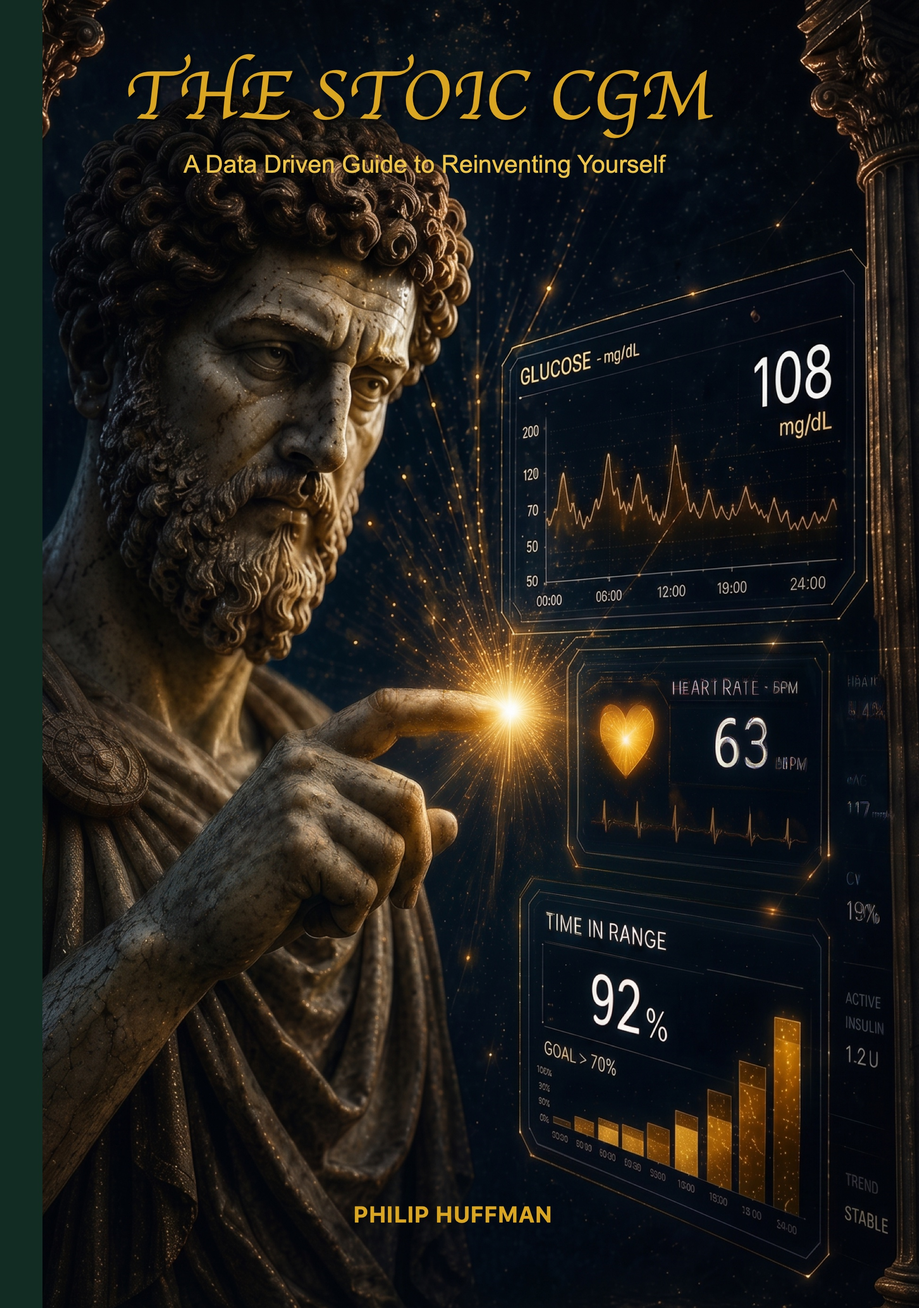
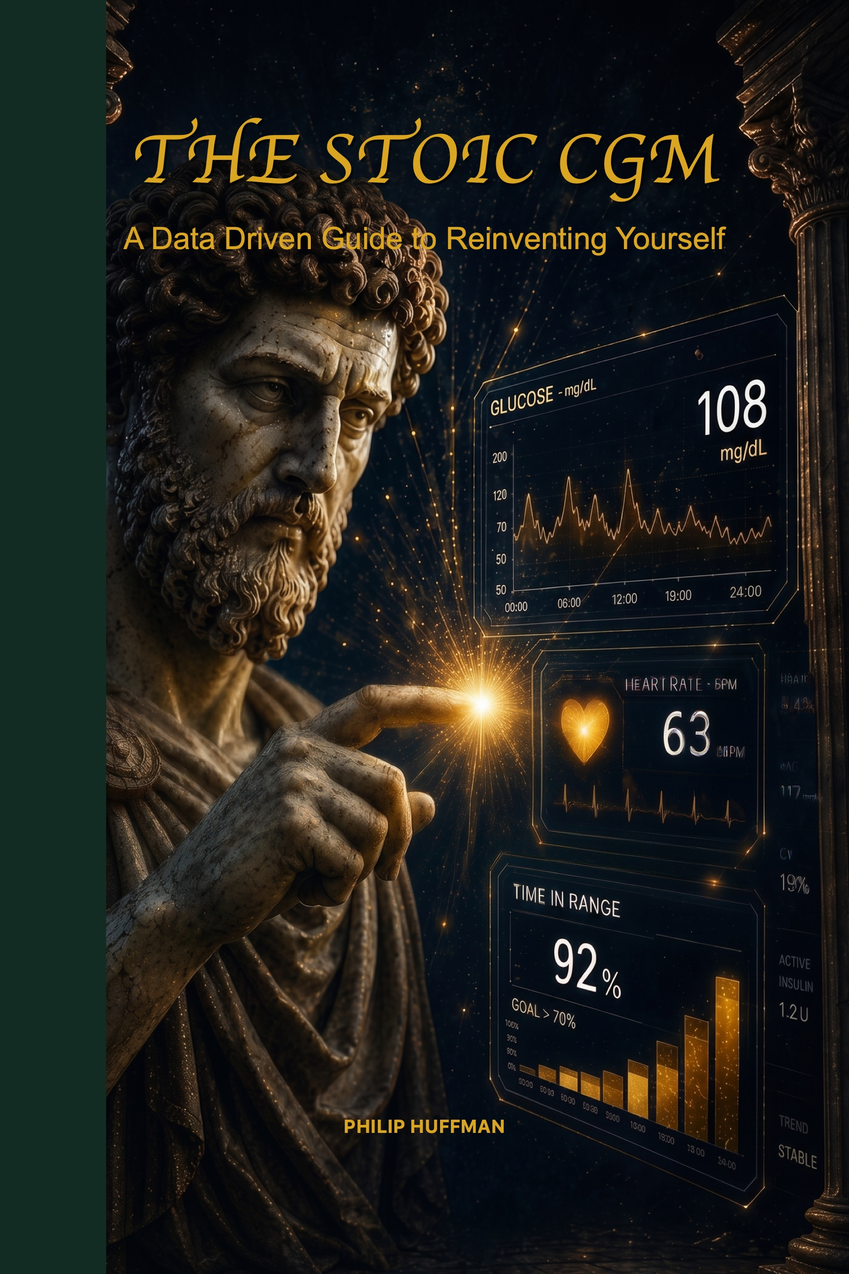
Replace all eleven book covers with the 2026-10-31 renders
Every cover was re-laid out today in CoverStudio (fonts, title scales,
offsets, page counts), so the nine-month-old crops on the site no longer
matched the books. Each file now comes from the project itself:

  CoverStudio render <book> --bind pb --out-front <file>

which reproduces the project's own cover/pb-<slug>.jpg byte for byte.

Two paperback crops are defective in the projects and the site takes the
hardcover crop for those two instead. The renderer fits the title to the
front panel and then applies front_title_offset_x_inches, so an offset
above the safe margin pushes a fitted title past the trim: bws leaves the
"?" 13 px from the edge and hides the first glyph under the spine-colour
band, and proportion runs the last letter off the cover entirely. Their
hardcover crops have 291 px and 305 px of margin. Fixing the paperback
offsets (0.333 -> ~0.2 and 0.5 -> ~0.2) restores a paperback crop for both.

No content changed: every image: value names the same file. stoic-citizen
and tsc are one cover in two names and both were written from one crop, as
was stoic-backgammon.webp beside its .jpg.

Verified: hugo --gc --minify clean, test_gates.py 474 tests OK,
check-hero-paths 411 paths, check-content-frontmatter 278 files,
check-render-integrity 631 pages, check-gallery-pages 152 items, and the
four surfaces that show a cover read in a browser at localhost. Nothing is
cropped in a way that touches type.

diff --git a/SESSION_STATE.md b/SESSION_STATE.md
@@ -12,6 +12,17 @@
 
 ---
 
+### Maintenance — October 31, 2026 — All eleven book covers re-exported and republished
+
+- **Every cover in `assets/img/books/` was replaced with a fresh front-cover crop** after the 2026-10-31 relayout of the LaTeX projects (fonts, title scales, offsets and page counts all moved; `git status` in all eleven book repos showed `M cover/cover.md` plus re-exported `pb-*/hc-*` artifacts). The crops came from **CoverStudio 0.1.13**, built from `~/Developer/Swift/CoverStudio` (`swift build -c release`), rendered headless: `CoverStudio render <book> --bind pb --out-front <file>`. The rendered bytes equal each project's own `cover/pb-<slug>.jpg`, so the CLI and the app agree.
+- **No content was touched.** Every `image:` value in `content/books/*/index.md` still names the same file, so the swap is purely the binary. `stoic-citizen.jpg` and `tsc.jpg` are the same cover twice (the frontmatter names the first, `cover-cache.sh` reads the second) and both were written from one crop, as was `stoic-backgammon.webp` beside its `.jpg`.
+- **Two paperback crops are defective in the projects, and the site takes the hardcover crop for those two instead.** The renderer fits the title to the front panel and *then* applies `front_title_offset_x_inches`, so any offset above the safe margin pushes a fitted title past the trim. Measured on the 2026-10-31 exports: `bws` (offset 0.333 in) leaves the "?" 13 px from the trim edge and hides the first glyph under the 0.33 in spine-colour band; `proportion` (offset 0.5 in) runs the last letter off the edge entirely — its ink bounding box reached the final pixel column. Both hardcover crops are clean (291 px and 305 px of margin), so `by-what-standard.jpg` and `proportion.jpg` are hc renders until the paperback offsets are reduced (`pb_front_title_offset_x_inches` 0.333 → ~0.2 and 0.5 → ~0.2). The other nine are paperback crops.
+- **`AllMyBooks/miscellaneous/covers` was regenerated, not edited:** `shared/cover-cache.sh ../miscellaneous/covers` renders the eleven 400 px also-by thumbnails from this repo's canonical art (and re-rendered `bws.jpg` again after its swap). Nothing is checked in there; it is a build cache.
+- **Verified by running it.** `hugo --gc --minify` clean; `check-hero-paths` 411 paths, `check-content-frontmatter` 278 files, `check-render-integrity` 631 pages / 267 related blocks, `check-gallery-pages` 152 items — all OK. The four surfaces that show a cover were read in a browser against `hugo server`: `/books/` cards (`object-fit: contain`), the home library grid (contain), `/posts/essays/all-my-books/` (`.phbooks-cover img` forces 2:3 + `cover-fit`, so a crop of the On Proportion thumbnail was simulated — 7 px a side, title intact), and `/books/<slug>/` at 800 px. Nothing is cropped in a way that touches type.
+- **Seen while doing this, not fixed:** the local toolchain is Hugo **0.169.0** while `.github/workflows/hugo.yml` pins **0.168.0**, the drift both files warn about; and the `bws`/`pic` hardcover `template_*` numbers are 6×9 values on 5×8 books, which is why their hc crops render 2037×2771 rather than a 5×8 panel.
+
+---
+
 ### Maintenance — October 31, 2026 — Published the docket-weekly-report report (automated)
 
 Auto-published by `com.huffmanwrites.docket-weekly-report` after every gate passed.
